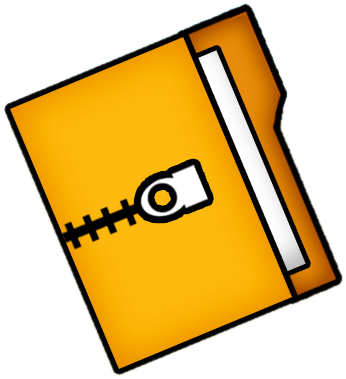
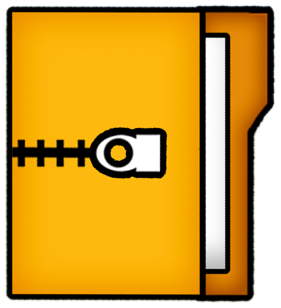
COMP : dossier = bouton (droit a 0%, tourne), anneau vert depuis le bas, % corrige, noms sous les boutons
Claude-Session: https://claude.ai/code/session_015NhdmJAtFd4n5K2WECzdWa

diff --git a/YazaVox/Source/PluginEditor.cpp b/YazaVox/Source/PluginEditor.cpp
@@ -1310,7 +1310,7 @@ void SimpleView::resized()
     scale = std::min (W / kDW, H / kDH);
     offX = (W - kDW * scale) * 0.5f; offY = (H - kDH * scale) * 0.5f;
     for (auto& pl : places) pl.c->setBounds (M (pl.r));
-    orbArea = M (kRingCx - 262.f, kRingCy - 262.f, 524.f, 524.f).getIntersection (getLocalBounds());
+    orbArea = M (kRingCx - 262.f, kRingCy - 262.f, 524.f, 590.f).getIntersection (getLocalBounds());
     inBar = M (32.f, 945.f, 492.f, 88.f);
     outBar = M (862.f, 945.f, 488.f, 88.f);
     targetArea = M (290.f, 915.f, 230.f, 42.f);
@@ -1349,7 +1349,7 @@ void SimpleView::paint (juce::Graphics& g)
     }
 
     // anneau COMP + dossier
-    if (vis ({ kRingCx - 262.f, kRingCy - 262.f, 524.f, 524.f }))
+    if (vis ({ kRingCx - 262.f, kRingCy - 262.f, 524.f, 590.f }))
     {
         const auto c = juce::Point<float> (offX + kRingCx * s, offY + kRingCy * s);
         const float R = kRingR * s, th = 15.f * s;
@@ -1361,32 +1361,30 @@ void SimpleView::paint (juce::Graphics& g)
         }
         g.setColour (juce::Colours::black);
         g.drawEllipse (c.x - R, c.y - R, R * 2.f, R * 2.f, th);
-        const float m = juce::jlimit (0.f, 0.9995f, arcShown);
-        const float a1 = -juce::MathConstants<float>::halfPi, a0 = a1 - m * juce::MathConstants<float>::twoPi;
+        const float m = juce::jlimit (0.f, 1.f, arcShown), sweep = juce::degreesToRadians (300.f);
+        const float a1 = juce::MathConstants<float>::pi, a0 = a1 - m * sweep;     // le vert part du bas (minimum) et monte par la droite
         if (m > 0.003f)
         {
             juce::Path arc; arc.addCentredArc (c.x, c.y, R, R, 0.f, a0, a1, true);
             g.setColour (kLime);
             g.strokePath (arc, juce::PathStrokeType (th, juce::PathStrokeType::curved, juce::PathStrokeType::butt));
         }
-        {   // repere rouge au bout de l'arc
-            juce::Path mk; mk.addRectangle (-4.5f * s, -(kRingR + 20.f) * s, 9.f * s, 40.f * s);
+        {   // repere rouge fixe en bas = minimum
             g.setColour (juce::Colour (0xffff1010));
-            g.fillPath (mk, juce::AffineTransform::rotation (a0).translated (c.x, c.y));
+            g.fillRect (c.x - 4.5f * s, c.y + (kRingR - 20.f) * s, 9.f * s, 40.f * s);
         }
-        if (folderScaled.isValid())
+        if (folderScaled.isValid())     // le dossier EST le bouton : droit a 0 %, il tourne avec la valeur
         {
-            const float tilt = std::sin (phase * 0.9f) * 0.045f * outLvl, grow = 1.f + 0.05f * outLvl, bob = std::sin (phase * 1.7f) * 4.f * s * outLvl;
+            const float grow = 1.f + 0.05f * outLvl, bob = std::sin (phase * 1.7f) * 4.f * s * outLvl;
             const float fw = (float) folderScaled.getWidth(), fh = (float) folderScaled.getHeight();
-            const float fcx = offX + (212.f + 346.f * 0.5f) * s, fcy = offY + (316.f + 379.f * 0.5f) * s;
-            if (outLvl < 0.02f) g.drawImageAt (folderScaled, juce::roundToInt (fcx - fw * 0.5f), juce::roundToInt (fcy - fh * 0.5f));
+            if (m < 0.003f && outLvl < 0.02f) g.drawImageAt (folderScaled, juce::roundToInt (c.x - fw * 0.5f), juce::roundToInt (c.y - fh * 0.5f));
             else
             {
                 g.setImageResamplingQuality (juce::Graphics::mediumResamplingQuality);
-                g.drawImageTransformed (folderScaled, juce::AffineTransform::translation (-fw * 0.5f, -fh * 0.5f).scaled (grow).rotated (tilt).translated (fcx, fcy + bob));
+                g.drawImageTransformed (folderScaled, juce::AffineTransform::translation (-fw * 0.5f, -fh * 0.5f).scaled (grow).rotated (-m * sweep).translated (c.x, c.y + bob));
             }
         }
-        inkText (g, juce::String (juce::roundToInt (arcShown * 100.f)) + "%", Rf (kRingCx - 90.f, 735.f, 180.f, 56.f), 50.f * s);
+        inkText (g, juce::String (juce::roundToInt (arcShown * 100.f)) + "%", Rf (kRingCx - 90.f, 748.f, 180.f, 50.f), 44.f * s);
     }
 
     // rangees eteintes : on assombrit
@@ -1409,6 +1407,18 @@ void SimpleView::paint (juce::Graphics& g)
             g.setColour (kOrange);
             g.drawText (NoteDisplay::noteName (d) + " > " + NoteDisplay::noteName (t), noteArea.toFloat(), juce::Justification::centredRight, true);
         }
+    }
+
+    // petits noms sous les boutons du panneau (meme police que le reste)
+    if (vis ({ 1030.f, 300.f, 560.f, 600.f }))
+    {
+        struct L { float x, y; const char* t; };
+        static const L ls[] = { { 1122, 285, "LOW" }, { 1248, 285, "LOW MID" }, { 1376, 285, "HI MID" }, { 1530, 285, "HIGH" },
+                                { 1418, 415, "SPEED" }, { 1530, 415, "HUMAN" },
+                                { 1073, 552, "DE-ESS" }, { 1192, 552, "SAT" }, { 1305, 552, "PHONE" }, { 1417, 552, "DOUBLE" }, { 1530, 552, "CHORUS" },
+                                { 1073, 692, "MIX" }, { 1194, 692, "REPEAT" }, { 1305, 692, "TONE" },
+                                { 1073, 830, "MIX" }, { 1193, 830, "DECAY" }, { 1305, 830, "SIZE" }, { 1417, 828, "DUCK" } };
+        for (auto& l : ls) inkText (g, l.t, Rf (l.x - 42.f, l.y + 41.f, 84.f, 19.f), 18.f * s);
     }
 
     // plaques du haut (le texte est a nous : le nom du preset change)
